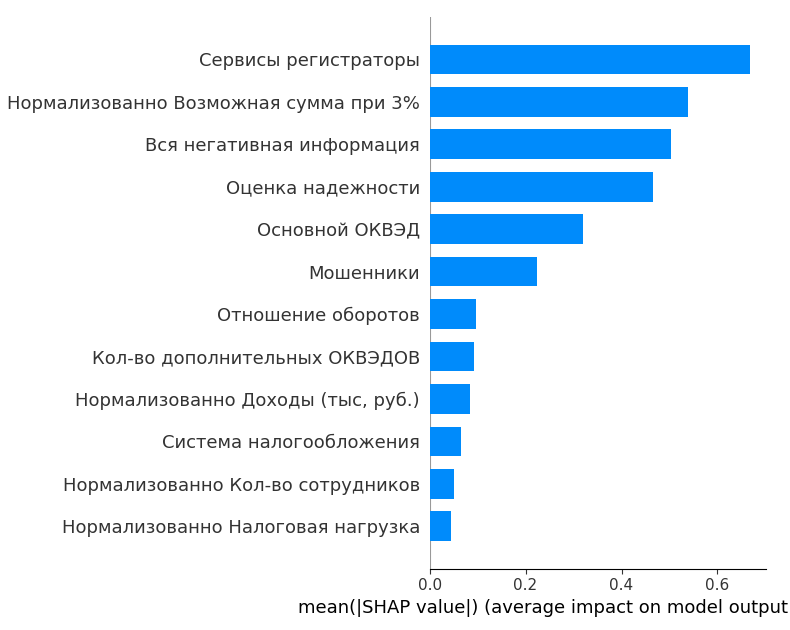
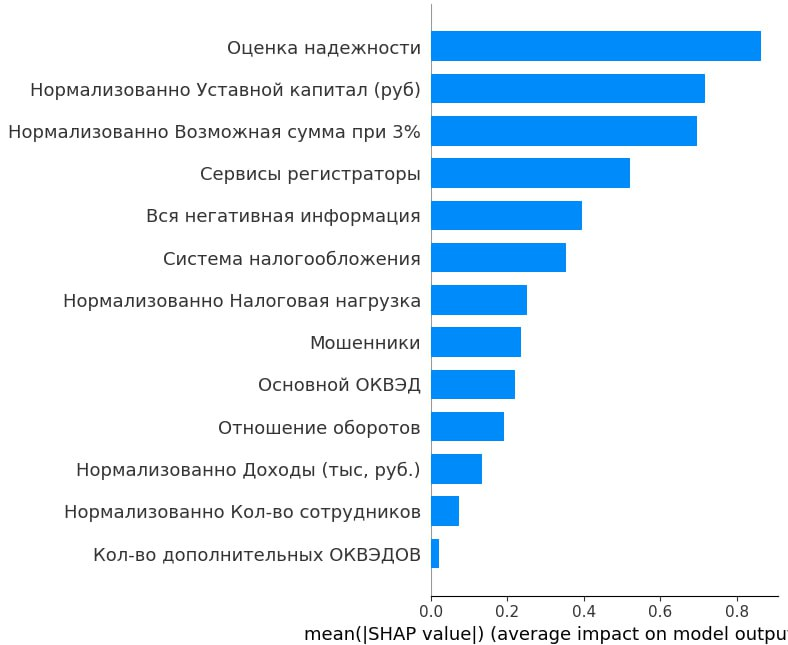
Документация конечная версия

Changed region(s): [[0.0, 0.0302, 1.0, 1.0]]

diff --git a/_doc/algorithm_guide.md b/_doc/algorithm_guide.md
@@ -29,7 +29,9 @@
 
 Они используются для расчета целевой переменной **score**, по которой будет определяться вердикт **result** - выдавать кредит или нет.
 
-Признаки [Оценка надежности] и [Нормализованно Возможная сумма при 3%] были взяты с сайта по проверке контрагентов [vbankcenter](https://vbankcenter.ru/contragent).
+Новые признаки [Оценка надежности] и [Нормализованно Возможная сумма при 3%] были взяты с сайта по проверке контрагентов [vbankcenter](https://vbankcenter.ru/contragent). Также признаки [Основной ОКВЭД], [Нормализованно Кол-во сотрудников], [Нормализованно Доходы (тыс, руб.)] могут быть взяты с этого сервиса.
+
+Для обучения были использованы лишь 20000 дополненных записей.
 
 ## Обучение модели
 
